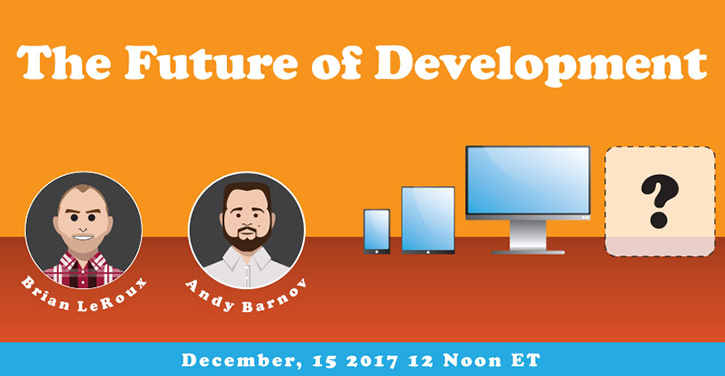
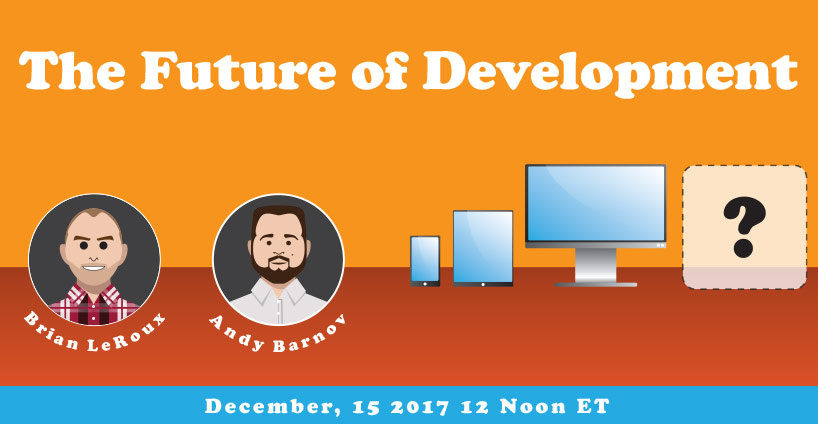
new post

diff --git a/_posts/2018-01-08-certified-fresh-2017.md b/_posts/2018-01-08-certified-fresh-2017.md
@@ -1,0 +1,50 @@
+---
+layout: post
+title: "Resolve to catch up on some great presentations in 2018! 🎆"
+date: "2018-01-08"
+categories:
+    - general
+description: Some great session recordings from last year's events.
+comments: true
+---
+
+2017 was a busy year! Since launching in August, I hosted 6 free online events with 13 speakers and 11 different presentations via [Certified Fresh Events](https://certifiedfreshevents.com) - covering everything from JavaScript to serverless to bots and tech culture. If you missed any of these, they are all recorded and available for free!
+
+Here's some of what you may have missed this year...
+ 
+## Learn about ES6 and TypeScript
+
+[![JavaScript in 2017](/images/posts/javascript2017.jpg)](https://certifiedfreshevents.com/events/javascript-2017/)
+
+[View the Crowdcast recording](https://certifiedfreshevents.com/events/javascript-2017/)
+
+## All about the Internet of Things & Smart Homes
+
+[![IoT for Fun and Profit](/images/posts/IoT-For-Fun-And-Profit 2.jpg)](https://certifiedfreshevents.com/events/iot-for-fun-and-profit/)
+
+[View the Crowdcast recording](https://certifiedfreshevents.com/events/iot-for-fun-and-profit/)
+
+## Dive into Vue.js & Preact
+
+[![Exploring JavaScript Frameworks](/images/posts/jsframeworks2017.jpg)](https://certifiedfreshevents.com/events/exploring-javascript-frameworks/)
+
+[View the Crowdcast recording](https://certifiedfreshevents.com/events/exploring-javascript-frameworks/)
+
+## Serverless with JS & the Serverless Framework
+
+[![Going Serverless](/images/posts/serverless2017.jpg)](https://certifiedfreshevents.com/events/going-serverless/)
+
+[View the Crowdcast recording](https://certifiedfreshevents.com/events/going-serverless/)
+
+## Improving the Culture of the Tech Workplace
+
+[![
+Oh No You Didn’t: Conflict Management in Today’s Tech Industry](/images/posts/Banner_Oh_No_You_Didnt 2.jpg)](https://certifiedfreshevents.com/events/conflict-management/)
+
+[View the Crowdcast recording](https://certifiedfreshevents.com/events/conflict-management/)
+
+## Deploy Serverless Apps & Build Bots
+
+[![The Future of Development](/images/posts/Banner_The-Future-Of-Development.jpg)](https://certifiedfreshevents.com/events/future-of-development/)
+
+[View the Crowdcast recording](https://certifiedfreshevents.com/events/future-of-development/)
